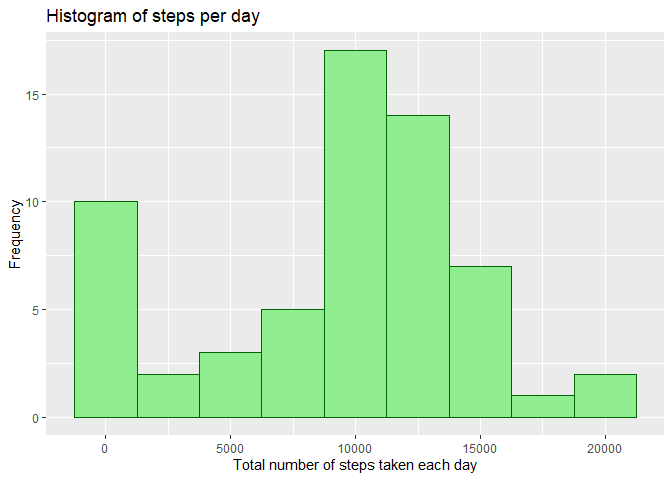
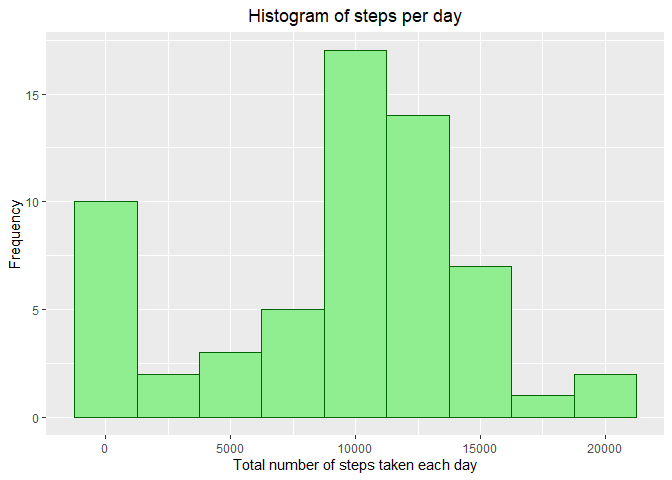
probando graficos nuevos y sus caracteristicas

Changed region(s): [[0.0625, 0.0, 0.6875, 0.0625]]

diff --git a/PA1_template.html b/PA1_template.html
@@ -204,8 +204,9 @@ ggplot(total_steps, aes(daily_steps)) +
   geom_histogram(binwidth = 2500, col=&quot;darkgreen&quot;, fill=&quot;lightgreen&quot;) +
   ggtitle(&quot;Histogram of steps per day&quot;) +
   xlab(&quot;Total number of steps taken each day&quot;) + 
-  ylab(&quot;Frequency&quot;)</code></pre>
[1 lines of base64/hex data omitted]
+  ylab(&quot;Frequency&quot;) +
+  theme( plot.title = element_text(hjust = 0.5))</code></pre>
[1 lines of base64/hex data omitted]
 <pre class="r"><code>mean = mean(total_steps$daily_steps, na.rm=TRUE)</code></pre>
 <pre><code>## [1] 9354.23</code></pre>
 <pre class="r"><code>median = median(total_steps$daily_steps, na.rm=TRUE)</code></pre>
@@ -221,8 +222,48 @@ ggplot(data=interval_steps, aes(x=interval, y=steps)) +
     geom_line(col=&quot;red&quot;) +
     ggtitle(&quot;Average steps per time interval&quot;) +
     xlab(&quot;5-minute intervals&quot;) +
-    ylab(&quot;Average number of steps taken&quot;)</code></pre>
[1 lines of base64/hex data omitted]
+    ylab(&quot;Average number of steps taken&quot;) +
+    theme( plot.title = element_text(hjust = 0.5))</code></pre>
[1 lines of base64/hex data omitted]
+</div>
+<div id="imputing-missing-values" class="section level2">
+<h2>Imputing missing values</h2>
+<div id="calculate-and-report-the-total-number-of-missing-values-in-the-dataset-i.e.-the-total-number-of-rows-with-nas" class="section level5">
+<h5>Calculate and report the total number of missing values in the dataset (i.e. the total number of rows with NAs)</h5>
+<pre class="r"><code>sum(is.na(initialData$steps))</code></pre>
+<pre><code>## [1] 2304</code></pre>
+<pre class="r"><code>imputed_initialData &lt;- initialData %&gt;%
+  mutate(
+    steps = case_when(
+      is.na(steps) ~ interval_steps$steps[match(initialData$interval, interval_steps$interval)],      
+      TRUE ~ as.numeric(steps)
+    ))
+
+
+imputed_total_steps &lt;- imputed_initialData %&gt;% group_by(date) %&gt;% summarise(daily_steps = sum(steps))
+
+ggplot(imputed_total_steps, aes(daily_steps)) + 
+  geom_histogram(binwidth = 2500, col=&quot;darkgreen&quot;, fill=&quot;lightgreen&quot;) + 
+  ggtitle(&quot;Total number of steps taken each day&quot;) + 
+  xlab(&quot;Total steps per day&quot;) +
+  ylab(&quot;Frequency&quot;) +
+  theme( plot.title = element_text(hjust = 0.5))</code></pre>
[1 lines of base64/hex data omitted]
+</div>
+<div id="we-now-compute-the-mean-and-median-number-of-daily-steps-of-the-imputed-initialdata." class="section level5">
+<h5>We now compute the mean and median number of daily steps of the imputed initialData.</h5>
+<pre class="r"><code>imputed_mean = mean(imputed_total_steps$daily_steps, na.rm=TRUE)</code></pre>
+<pre><code>## [1] 10766.19</code></pre>
+<pre class="r"><code>imputed_median = median(imputed_total_steps$daily_steps, na.rm=TRUE)</code></pre>
+<pre><code>## [1] 10766.19</code></pre>
+</div>
+<div id="we-can-calculate-the-difference-of-the-means-and-medians-between-imputed-and-original-initialdata." class="section level5">
+<h5>We can calculate the difference of the means and medians between imputed and original initialData.</h5>
+<pre class="r"><code>mean_diff &lt;- imputed_mean - mean </code></pre>
+<pre><code>## [1] 1411.959</code></pre>
+<pre class="r"><code>median_diff &lt;- imputed_median - median</code></pre>
+<pre><code>## [1] 371.1887</code></pre>
+</div>
 </div>
 
 

diff --git a/PA1_template.md b/PA1_template.md
@@ -57,7 +57,8 @@ ggplot(total_steps, aes(daily_steps)) +
   geom_histogram(binwidth = 2500, col="darkgreen", fill="lightgreen") +
   ggtitle("Histogram of steps per day") +
   xlab("Total number of steps taken each day") + 
-  ylab("Frequency")
+  ylab("Frequency") +
+  theme( plot.title = element_text(hjust = 0.5))
 ```
 
 ![](PA1_template_files/figure-html/unnamed-chunk-3-1.png)<!-- -->
@@ -92,13 +93,88 @@ ggplot(data=interval_steps, aes(x=interval, y=steps)) +
     geom_line(col="red") +
     ggtitle("Average steps per time interval") +
     xlab("5-minute intervals") +
-    ylab("Average number of steps taken")
+    ylab("Average number of steps taken") +
+    theme( plot.title = element_text(hjust = 0.5))
 ```
 
 ![](PA1_template_files/figure-html/unnamed-chunk-8-1.png)<!-- -->
 
 
+## Imputing missing values
 
+##### Calculate and report the total number of missing values in the dataset (i.e. the total number of rows with NAs)
+
+
+```r
+sum(is.na(initialData$steps))
+```
+
+```
+## [1] 2304
+```
+
+
+
+
+```r
+imputed_initialData <- initialData %>%
+  mutate(
+    steps = case_when(
+      is.na(steps) ~ interval_steps$steps[match(initialData$interval, interval_steps$interval)],      
+      TRUE ~ as.numeric(steps)
+    ))
+
+
+imputed_total_steps <- imputed_initialData %>% group_by(date) %>% summarise(daily_steps = sum(steps))
+
+ggplot(imputed_total_steps, aes(daily_steps)) + 
+  geom_histogram(binwidth = 2500, col="darkgreen", fill="lightgreen") + 
+  ggtitle("Total number of steps taken each day") + 
+  xlab("Total steps per day") +
+  ylab("Frequency") +
+  theme( plot.title = element_text(hjust = 0.5))
+```
+
+![](PA1_template_files/figure-html/unnamed-chunk-10-1.png)<!-- -->
+
+##### We now compute the mean and median number of daily steps of the imputed initialData.
+
+
+
+```r
+imputed_mean = mean(imputed_total_steps$daily_steps, na.rm=TRUE)
+```
+
+```
+## [1] 10766.19
+```
+
+```r
+imputed_median = median(imputed_total_steps$daily_steps, na.rm=TRUE)
+```
+
+```
+## [1] 10766.19
+```
+##### We can calculate the difference of the means and medians between imputed and original initialData.
+
+
+
+```r
+mean_diff <- imputed_mean - mean 
+```
+
+```
+## [1] 1411.959
+```
+
+```r
+median_diff <- imputed_median - median
+```
+
+```
+## [1] 371.1887
+```
 
 
 
